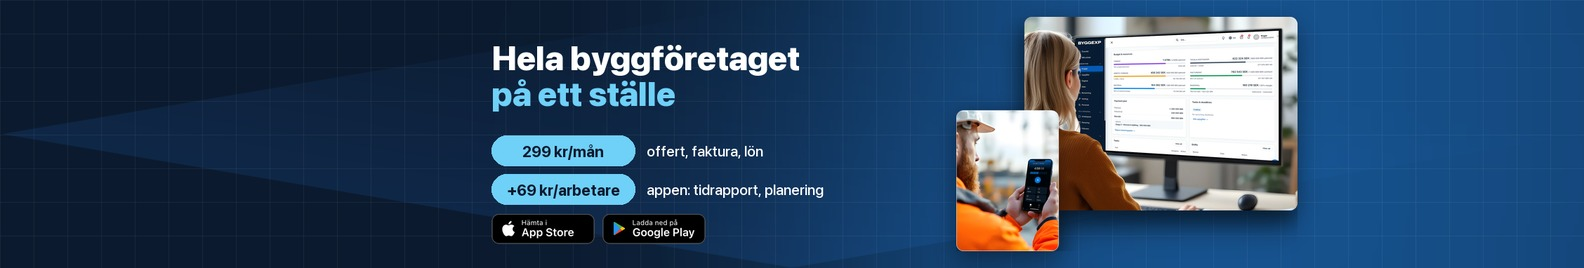
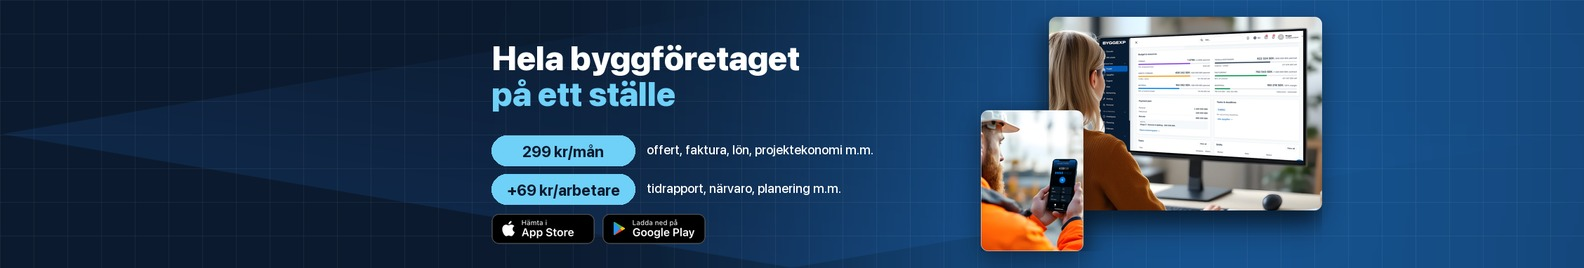
SMM S18: cover price rows list main features + m.m.
Claude-Session: https://claude.ai/code/session_01XD1XQzsUammoaxUgkDVk4g

Changed region(s): [[0.5878, 0.0597, 0.8352, 0.9552], [0.4021, 0.5373, 0.5568, 0.597], [0.4021, 0.6866, 0.5259, 0.7463]]

diff --git a/design-assets/social/covers/make_covers.py b/design-assets/social/covers/make_covers.py
@@ -83,7 +83,7 @@ def cover(name, w, h, safe, lines, fs, cell, sub=None, tw=None, shot=None, url=N
         y += slh
     if rows:
         y += int(fs * .4) - (int(fs * .4) if sub_lines else 0)
-        fp, fl = font(int(ph * .52), "Bold"), font(int(ph * .5), "Medium")
+        fp, fl = font(int(ph * .52), "Bold"), font(int(ph * .44), "Medium")
         pw = max(d.textlength(r[0] if isinstance(r, tuple) else r, font=fp) for r in rows) + ph  # equal pill width
         for i, r in enumerate(rows):
             p, label = r if isinstance(r, tuple) else (r, None)
@@ -153,7 +153,7 @@ for n in ("linkedin-cover-value", "linkedin-cover-product"):  # LinkedIn rejects
 # S16/S17: hero collage from the home page + price + store badges
 HERO = Image.open(TILES / "hero-nostores.png")  # badges sit next to the price instead
 HEAD = [("Hela byggföretaget", WHITE), ("på ett ställe", SKY)]
-PRICE = [("299 kr/mån", "offert, faktura, lön"), ("+69 kr/arbetare", "appen: tidrapport, planering")]  # S18
+PRICE = [("299 kr/mån", "offert, faktura, lön, projektekonomi m.m."), ("+69 kr/arbetare", "tidrapport, närvaro, planering m.m.")]  # S18
 cover("facebook-cover-v4", 1640, 624, (270, 40, 1100, 544), HEAD, 64, 48, shot=HERO, price=PRICE, stores=True)
 cover("linkedin-cover-v4", 2256, 382, (700, 24, 1300, 334), HEAD, 48, 48, shot=HERO, price=PRICE, stores=True)
 Image.open(HERE / "linkedin-cover-v4.png").convert("RGB").resize((1584, 268), Image.LANCZOS).save(HERE / "linkedin-cover-v4.jpg", quality=92)

diff --git a/design-assets/social/DESIGN-SYSTEM-SMM.md b/design-assets/social/DESIGN-SYSTEM-SMM.md
@@ -57,7 +57,7 @@
 
 **S17 · 2026-10-20 · Цена видна везде.** Каждый пост, обложка и закреп показывают цену внутри квадрата сетки (S15): плашка «299 kr/mån · +69 kr/arbetare» (на постах рубрики — её цена), в тексте поста цена в первых строках. Источник цен — `src/components/HeroV2/HeroV2.tsx`; старые цены (299/690/990) не использовать, посты с ними — в архив. Почему: владелец: «цены — наша фишка, не прятать».
 
-**S18 · 2026-10-20 · Цена с пояснением, что в неё входит.** Не голая «299 kr/mån + 69 kr/arbetare», а строки «плашка цены + что входит»: «299 kr/mån — offert, faktura, lön» и «+69 kr/arbetare — appen: tidrapport, planering». Плашки одной ширины, пояснения выровнены по одной линии. Источник состава — `PRICE_LINES` в `src/components/HeroV2/HeroV2.tsx`. Код: `covers/make_covers.py` (`price` = список пар). Почему: владелец: «не понятно, что и за что — дать пояснения, что входит в сумму».
+**S18 · 2026-10-20 · Цена с пояснением, что в неё входит.** Не голая «299 kr/mån + 69 kr/arbetare», а строки «плашка цены + что входит»: «299 kr/mån — offert, faktura, lön, projektekonomi m.m.» и «+69 kr/arbetare — tidrapport, närvaro, planering m.m.»: 3–4 главные киллер-фичи из шапки сайта, остальное в «m.m.». Плашки одной ширины, пояснения выровнены по одной линии. Источник состава — `PRICE_LINES` в `src/components/HeroV2/HeroV2.tsx`. Код: `covers/make_covers.py` (`price` = список пар). Почему: владелец: «не понятно, что и за что — дать пояснения, что входит в сумму».
 
 **S7 · Текст.** Шведский, без кириллицы; только факты из `docs/seo/product-facts-verified.md`; ссылки с UTM.
 
